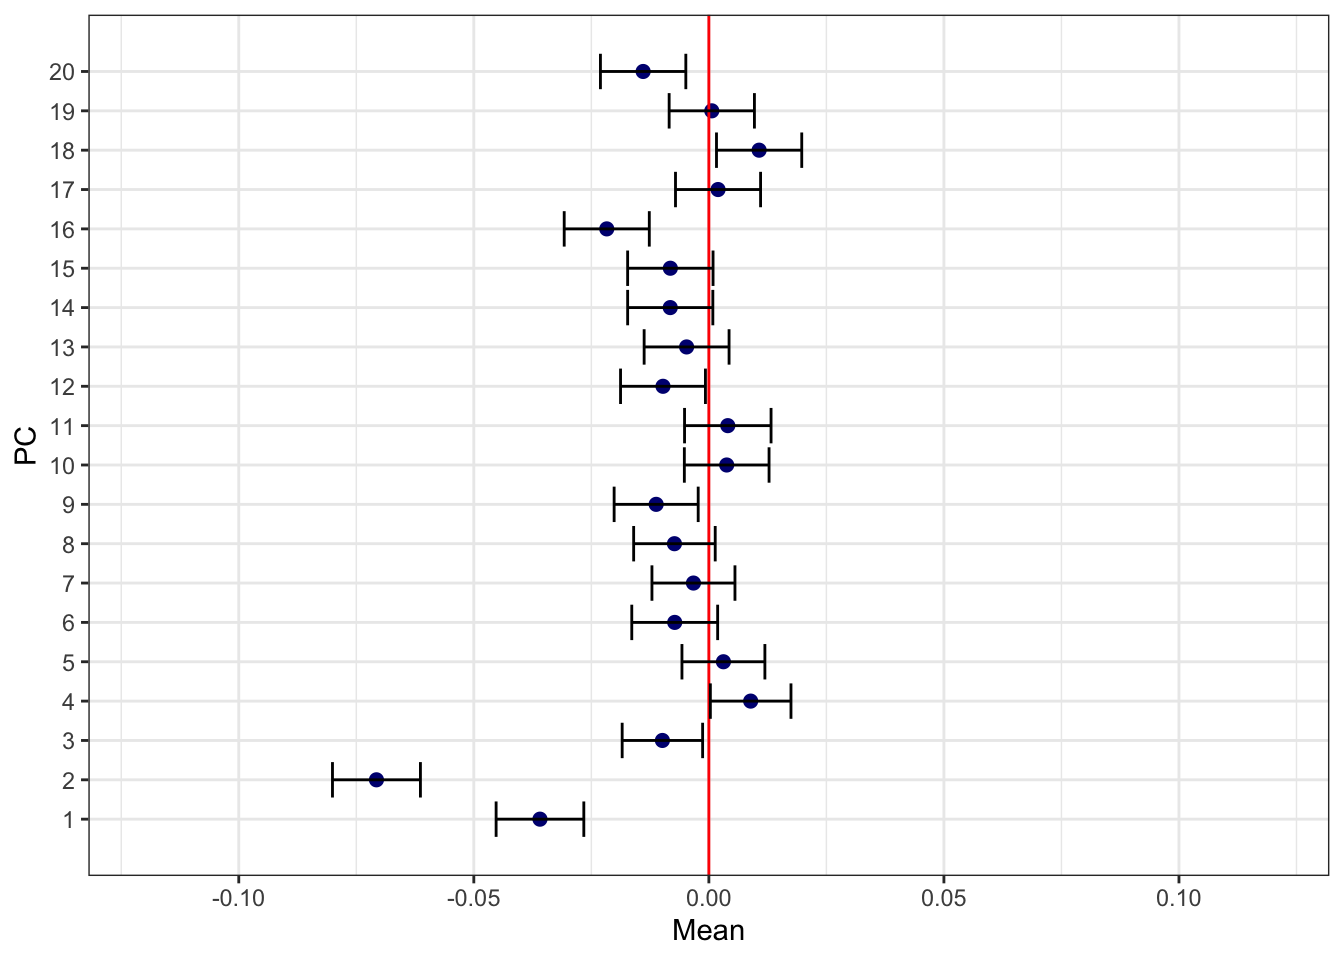
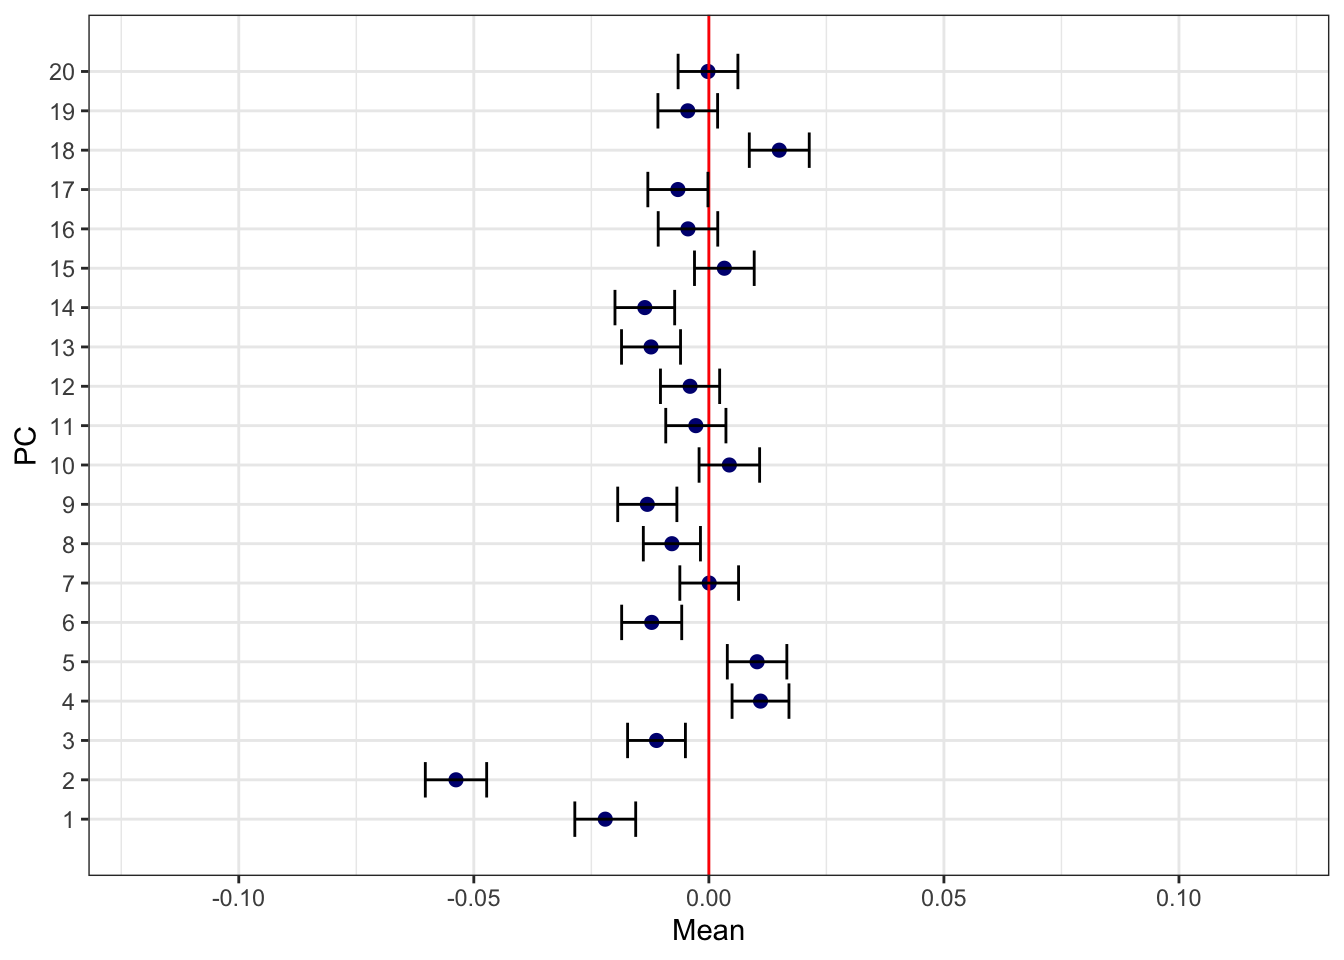
Build site.

diff --git a/docs/Stratification.html b/docs/Stratification.html
@@ -411,7 +411,7 @@ div.section {
 <div class="tab-content">
 <div id="summary" class="tab-pane fade in active">
 <p>
-<strong>Last updated:</strong> 2020-04-02
+<strong>Last updated:</strong> 2020-04-14
 </p>
 <p>
 <strong>Checks:</strong> <span class="glyphicon glyphicon-ok text-success" aria-hidden="true"></span> 7 <span class="glyphicon glyphicon-exclamation-sign text-danger" aria-hidden="true"></span> 0
@@ -502,10 +502,10 @@ This reproducible <a href="http://rmarkdown.rstudio.com">R Markdown</a> analysis
 <div class="panel panel-default">
 <div class="panel-heading">
 <p class="panel-title">
-<a data-toggle="collapse" data-parent="#workflowr-checks" href="#strongRepositoryversionstrongahrefhttpsgithubcomjgblancinfermutationalbiastreebf483b5fcdb767f1be135f4f3b27c9c65f68a8f4targetblankbf483b5a"> <span class="glyphicon glyphicon-ok text-success" aria-hidden="true"></span> <strong>Repository version:</strong> <a href="https://github.com/jgblanc/infer_mutational_bias/tree/bf483b5fcdb767f1be135f4f3b27c9c65f68a8f4" target="_blank">bf483b5</a> </a>
+<a data-toggle="collapse" data-parent="#workflowr-checks" href="#strongRepositoryversionstrongahrefhttpsgithubcomjgblancinfermutationalbiastree61ad1257bce9aa6871e9d38f3ef45d5909ffad24targetblank61ad125a"> <span class="glyphicon glyphicon-ok text-success" aria-hidden="true"></span> <strong>Repository version:</strong> <a href="https://github.com/jgblanc/infer_mutational_bias/tree/61ad1257bce9aa6871e9d38f3ef45d5909ffad24" target="_blank">61ad125</a> </a>
 </p>
 </div>
[2 lines of base64/hex data omitted]
 <div class="panel-body">
 <p>
 Great! You are using Git for version control. Tracking code development and connecting the code version to the results is critical for reproducibility. The version displayed above was the version of the Git repository at the time these results were generated. <br><br> Note that you need to be careful to ensure that all relevant files for the analysis have been committed to Git prior to generating the results (you can use <code>wflow_publish</code> or <code>wflow_git_commit</code>). workflowr only checks the R Markdown file, but you know if there are other scripts or data files that it depends on. Below is the status of the Git repository when the results were generated:
@@ -599,6 +599,7 @@ Untracked files:
     Untracked:  .snakemake/metadata/b3V0cHV0L0dXQVNfQVRMQVMvcHJ1bmVkL2hlaWdodF8xNDJfMC4wMDAxLnBydW5lLmlu
     Untracked:  .snakemake/metadata/b3V0cHV0L0dXQVNfQVRMQVMvcHJ1bmVkL3NjaGl6b3BocmVuaWFfMzk4Ml8wLjAwMDEucHJ1bmUuaW4=
     Untracked:  .snakemake/scripts/tmp7997be50.get_evolutionary_information_from_1kg_GWAS_ATLAS.py
+    Untracked:  analysis/STAN_model_strat.Rmd
     Untracked:  analysis/test.Rmd
     Untracked:  code/parse_gwas_atlas_nonsig/height_142.R
     Untracked:  code/rsID_Pos_conversion.py
@@ -612,6 +613,7 @@ Unstaged changes:
     Modified:   .snakemake/metadata/b3V0cHV0L1NUUkFUL3BydW5lZC9jaHIxX0VVUl8wLjMuZWlnZW52ZWMudmFyLkRBLnBydW5lLmlu
     Modified:   .snakemake/metadata/b3V0cHV0L1NUUkFUL3BydW5lZC9jaHIxX0VVUl8wLjQuZWlnZW52ZWMudmFyLkRBLnBydW5lLmlu
     Modified:   analysis/GWAS_ATLAS_results.Rmd
+    Modified:   analysis/shift_GWAS_ATLAS.Rmd
     Modified:   code/parse_gwas_atlas_nonsig/CAD_3925.R
     Modified:   code/parse_gwas_atlas_nonsig/T2D_4085.R
     Modified:   code/parse_gwas_atlas_nonsig/UC_2030.R
@@ -656,6 +658,40 @@ Message
 </tr>
 </thead>
 <tbody>
+<tr>
+<td>
+Rmd
+</td>
+<td>
+<a href="https://github.com/jgblanc/infer_mutational_bias/blob/61ad1257bce9aa6871e9d38f3ef45d5909ffad24/analysis/Stratification.Rmd" target="_blank">61ad125</a>
+</td>
+<td>
+jgblanc
+</td>
+<td>
+2020-04-14
+</td>
+<td>
+Fixed bug
+</td>
+</tr>
+<tr>
+<td>
+html
+</td>
+<td>
+<a href="https://rawcdn.githack.com/jgblanc/infer_mutational_bias/e7077ba9878fccaed296d44b39a5819250d48948/docs/Stratification.html" target="_blank">e7077ba</a>
+</td>
+<td>
+jgblanc
+</td>
+<td>
+2020-04-02
+</td>
+<td>
+Build site.
+</td>
+</tr>
 <tr>
 <td>
 html
@@ -935,16 +971,16 @@ jgblanc
 </div>
 <div id="snp-loadings" class="section level2">
 <h2>SNP Loadings</h2>
-<p>MAF filter 0.01 (n = 9755877, pruned = 65370)</p>
+<p>MAF filter 0.01 (n w/ DA info = 7937190 , pruned = 578137)</p>
 <pre class="r"><code>loading &lt;- fread(&quot;../data/STRAT/EUR_0.01_evo.txt&quot;)
 loading &lt;- loading %&gt;% na.omit() # Get rid of no info (DA) SNPs 
 pruned &lt;- fread(&quot;../data/STRAT/EUR_0.01.eigenvec.var.DA.prune.in&quot;, header = F)
 loading &lt;- left_join(pruned,loading, by = c(&quot;V1&quot;=&quot;V2&quot;))
-only_num &lt;- loading[,5:24]
-sums &lt;- colMeans(only_num, na.rm = T)
+only_num &lt;- loading[,5:24] * loading$V25
+sums &lt;- colMeans(only_num)
 stan_devs &lt;- apply(only_num, 2, sd)
-lower_bound &lt;- sums - (1.960 * (stan_devs / sqrt(nrow(pruned))))
-upper_bound &lt;- sums + (1.960 * (stan_devs / sqrt(nrow(pruned))))
+lower_bound &lt;- sums - (1.960 * (stan_devs / sqrt(nrow(only_num))))
+upper_bound &lt;- sums + (1.960 * (stan_devs / sqrt(nrow(only_num))))
  
 
 df_0.01 &lt;- as.data.frame(cbind(sums,seq(1,20), lower_bound, upper_bound))
@@ -1022,12 +1058,12 @@ jgblanc
 </table>
 </div>
 </div>
-<p>MAF filter 0.05 (n=6983938, pruned = 45803)</p>
+<p>MAF filter 0.05 (n w/ DA info = 5627285, pruned = 117441)</p>
 <pre class="r"><code>loading &lt;- fread(&quot;../data/STRAT/EUR_0.05_evo.txt&quot;)
 loading &lt;- loading %&gt;% na.omit() # Get rid of no info (DA) SNPs 
 pruned &lt;- fread(&quot;../data/STRAT/EUR_0.05.eigenvec.var.DA.prune.in&quot;, header = F)
 loading &lt;- left_join(pruned,loading, by = c(&quot;V1&quot;=&quot;V2&quot;))
-only_num &lt;- loading[,5:24]
+only_num &lt;- loading[,5:24] *  loading$V25
 sums &lt;- colMeans(only_num, na.rm = T)
 stan_devs &lt;- apply(only_num, 2, sd)
 lower_bound &lt;- sums - (1.960 * (stan_devs / sqrt(nrow(pruned))))
@@ -1098,12 +1134,12 @@ jgblanc
 </table>
 </div>
 </div>
-<p>MAF filter 0.1 (n = 5608165, pruned = 41521)</p>
+<p>MAF filter 0.1 (n = 4496063, pruned = 86767)</p>
 <pre class="r"><code>loading &lt;- fread(&quot;../data/STRAT/EUR_0.1_evo.txt&quot;)
 loading &lt;- loading %&gt;% na.omit() # Get rid of no info (DA) SNPs 
 pruned &lt;- fread(&quot;../data/STRAT/EUR_0.1.eigenvec.var.DA.prune.in&quot;, header = F)
 loading &lt;- left_join(pruned,loading, by = c(&quot;V1&quot;=&quot;V2&quot;))
-only_num &lt;- loading[,5:24]
+only_num &lt;- loading[,5:24] * loading$V25
 sums &lt;- colMeans(only_num, na.rm = T)
 stan_devs &lt;- apply(only_num, 2, sd)
 lower_bound &lt;- sums - (1.960 * (stan_devs / sqrt(nrow(pruned))))
@@ -1174,12 +1210,12 @@ jgblanc
 </table>
 </div>
 </div>
-<p>MAF filter 0.2 (n=3787677, pruned = 36086)</p>
+<p>MAF filter 0.2 (n=3019106, pruned = 64230)</p>
 <pre class="r"><code>loading &lt;- fread(&quot;../data/STRAT/EUR_0.2_evo.txt&quot;)
 loading &lt;- loading %&gt;% na.omit() # Get rid of no info (DA) SNPs 
 pruned &lt;- fread(&quot;../data/STRAT/EUR_0.2.eigenvec.var.DA.prune.in&quot;, header = F)
 loading &lt;- left_join(pruned,loading, by = c(&quot;V1&quot;=&quot;V2&quot;))
-only_num &lt;- loading[,5:24]
+only_num &lt;- loading[,5:24]* loading$V25
 sums &lt;- colMeans(only_num, na.rm = T)
 stan_devs &lt;- apply(only_num, 2, sd)
 lower_bound &lt;- sums - (1.960 * (stan_devs / sqrt(nrow(pruned))))
@@ -1250,12 +1286,12 @@ jgblanc
 </table>
 </div>
 </div>
-<p>MAF filter 0.3 (n=2401987, pruned = 31059)</p>
+<p>MAF filter 0.3 (n=1906644, pruned = 48015)</p>
 <pre class="r"><code>loading &lt;- fread(&quot;../data/STRAT/EUR_0.3_evo.txt&quot;)
 loading &lt;- loading %&gt;% na.omit() # Get rid of no info (DA) SNPs 
 pruned &lt;- fread(&quot;../data/STRAT/EUR_0.3.eigenvec.var.DA.prune.in&quot;, header = F)
 loading &lt;- left_join(pruned,loading, by = c(&quot;V1&quot;=&quot;V2&quot;))
-only_num &lt;- loading[,5:24]
+only_num &lt;- loading[,5:24]* loading$V25
 sums &lt;- colMeans(only_num, na.rm = T)
 stan_devs &lt;- apply(only_num, 2, sd)
 lower_bound &lt;- sums - (1.960 * (stan_devs / sqrt(nrow(pruned))))
@@ -1326,12 +1362,12 @@ jgblanc
 </table>
 </div>
 </div>
-<p>MAF filter 0.4 (n=1172620, pruned = 24810)</p>
+<p>MAF filter 0.4 (n=926834, pruned = 33551)</p>
 <pre class="r"><code>loading &lt;- fread(&quot;../data/STRAT/EUR_0.4_evo.txt&quot;)
 loading &lt;- loading %&gt;% na.omit() # Get rid of no info (DA) SNPs 
 pruned &lt;- fread(&quot;../data/STRAT/EUR_0.4.eigenvec.var.DA.prune.in&quot;, header = F)
 loading &lt;- left_join(pruned,loading, by = c(&quot;V1&quot;=&quot;V2&quot;))
-only_num &lt;- loading[,5:24]
+only_num &lt;- loading[,5:24]* loading$V25
 sums &lt;- colMeans(only_num, na.rm = T)
 stan_devs &lt;- apply(only_num, 2, sd)
 lower_bound &lt;- sums - (1.960 * (stan_devs / sqrt(nrow(pruned))))
@@ -1734,6 +1770,58 @@ jgblanc
 </table>
 </div>
 </div>
+<div id="stratifacation-of-gwas-snps" class="section level3">
+<h3>Stratifacation of GWAS SNPs</h3>
+<p><strong>Schizophrenia significant SNPs</strong></p>
+<pre class="r"><code>loading &lt;- fread(&quot;../data/STRAT/EUR_0.01_evo.txt&quot;)
+loading &lt;- loading %&gt;% na.omit() # Get rid of no info (DA) SNPs 
+schizophrenia &lt;- fread(&quot;../output/GWAS_ATLAS/evo_added/schizophrenia_3982_evo.txt&quot;)
+colnames(schizophrenia) &lt;- c(colnames(schizophrenia)[1:13], &quot;EA_Derived&quot;, &quot;DAF&quot;, &quot;Risk_Derived&quot;)
+schizophrenia$disease &lt;- &quot;Schizophenria&quot;
+clumped &lt;- fread(&quot;../output/GWAS_ATLAS/clumped/schizophrenia_3982_SNPs.txt&quot;)
+schizophrenia &lt;- left_join(clumped, schizophrenia) </code></pre>
+<pre><code>Joining, by = &quot;SNP&quot;</code></pre>
+<pre class="r"><code>df &lt;- schizophrenia %&gt;% select(SNP)</code></pre>
+<pre class="r"><code>#write.table(df, file = &quot;../data/STRAT/schizophrenia_chrbp_snps.txt&quot;, quote = F, row.names = F)
+#system(&quot;awk -F &#39;,&#39; &#39;NR==FNR {id[$1]; next} $1 in id&#39; ../data/STRAT/schizophrenia_chrbp_snps.txt ../data/rsID_pos_conversion.txt &gt; ../data/STRAT/schizophrenia_conversion.csv&quot;)</code></pre>
+<pre class="r"><code>conversion &lt;- fread(&quot;../data/STRAT/schizophrenia_conversion.csv&quot;, header = F)
+comb &lt;- left_join(conversion, loading, by = c(&quot;V2&quot; = &quot;V2&quot;))
+
+only_num &lt;- comb[,6:25] * comb$V25
+only_num &lt;- only_num %&gt;%na.omit()
+sums &lt;- colMeans(only_num, na.rm = T)
+stan_devs &lt;- apply(only_num, 2, sd)
+lower_bound &lt;- sums - (1.960 * (stan_devs / sqrt(nrow(only_num))))
+upper_bound &lt;- sums + (1.960 * (stan_devs / sqrt(nrow(only_num))))
+ 
+df &lt;- as.data.frame(cbind(sums,seq(1,20), lower_bound, upper_bound))
+pl &lt;- ggplot(df, aes(x=sums,y=V2)) + geom_point(size = 2, color = &quot;navy&quot;) + geom_vline(xintercept = 0, color = &quot;red&quot;) + ylab(&quot;PC&quot;) + scale_y_continuous(minor_breaks = seq(1 , 20, 1), breaks = seq(1, 20, 1)) + xlab(&quot;Mean&quot;) + theme_bw() + geom_errorbarh(aes(xmin = lower_bound, xmax = upper_bound))
+
+pl</code></pre>
+<p><img src="figure/Stratification.Rmd/unnamed-chunk-17-1.png" width="672" style="display: block; margin: auto;" /></p>
+<p><strong>Schizophrenia non-significant SNPs</strong></p>
+<pre class="r"><code>schizophrenia &lt;- fread(&quot;../output/GWAS_ATLAS/evo_added/schizophrenia_3982-0.0001_evo.txt&quot;)
+colnames(schizophrenia) &lt;- c(colnames(schizophrenia)[1:13], &quot;EA_Derived&quot;, &quot;DAF&quot;, &quot;Risk_Derived&quot;)
+pruned &lt;- fread(&quot;../output/GWAS_ATLAS/pruned/schizophrenia_3982_0.0001.prune.in&quot;, header = F)
+schizophrenia &lt;- left_join(pruned, schizophrenia, by = c(&quot;V1&quot; = &quot;SNP&quot;))
+df &lt;- schizophrenia %&gt;% select(V1)</code></pre>
+<pre class="r"><code>#write.table(df, file = &quot;../data/STRAT/schizophrenia_chrbp_snps_nonsig.txt&quot;, quote = F, row.names = F)
+#system(&quot;awk -F &#39;,&#39; &#39;NR==FNR {id[$1]; next} $1 in id&#39; ../data/STRAT/schizophrenia_chrbp_snps_nonsig.txt ../data/rsID_pos_conversion.txt &gt; ../data/STRAT/schizophrenia_conversion_nonsig.csv&quot;)</code></pre>
+<pre class="r"><code>conversion &lt;- fread(&quot;../data/STRAT/schizophrenia_conversion_nonsig.csv&quot;, header = F)
+comb &lt;- left_join(conversion, loading, by = c(&quot;V2&quot; = &quot;V2&quot;))
+
+only_num &lt;- comb[,6:25] * comb$V25
+only_num &lt;- only_num %&gt;%na.omit()
+sums &lt;- colMeans(only_num, na.rm = T)
+stan_devs &lt;- apply(only_num, 2, sd)
+lower_bound &lt;- sums - (1.960 * (stan_devs / sqrt(nrow(only_num))))
+upper_bound &lt;- sums + (1.960 * (stan_devs / sqrt(nrow(only_num))))
+ 
+df_nonsig &lt;- as.data.frame(cbind(sums,seq(1,20), lower_bound, upper_bound))
+pl_nonsig &lt;- ggplot(df_nonsig, aes(x=sums,y=V2)) + geom_point(size = 2, color = &quot;navy&quot;) + geom_vline(xintercept = 0, color = &quot;red&quot;) + ylab(&quot;PC&quot;) + scale_y_continuous(minor_breaks = seq(1 , 20, 1), breaks = seq(1, 20, 1)) + xlab(&quot;Mean&quot;) + theme_bw() + geom_errorbarh(aes(xmin = lower_bound, xmax = upper_bound))
+
+pl_nonsig</code></pre>
+<p><img src="figure/Stratification.Rmd/unnamed-chunk-20-1.png" width="672" style="display: block; margin: auto;" /></p>
 <br>
 <p>
 <button type="button" class="btn btn-default btn-workflowr btn-workflowr-sessioninfo" data-toggle="collapse" data-target="#workflowr-sessioninfo" style="display: block;">
@@ -1765,13 +1853,14 @@ loaded via a namespace (and not attached):
  [5] git2r_0.26.1     tools_3.6.2      digest_0.6.25    evaluate_0.14   
  [9] lifecycle_0.1.0  tibble_2.1.3     gtable_0.3.0     pkgconfig_2.0.3 
 [13] rlang_0.4.4      yaml_2.2.1       xfun_0.12        gridExtra_2.3   
-[17] withr_2.1.2      stringr_1.4.0    knitr_1.28       fs_1.3.1        
-[21] cowplot_1.0.0    rprojroot_1.3-2  grid_3.6.2       tidyselect_1.0.0
-[25] glue_1.3.1       R6_2.4.1         rmarkdown_2.1    farver_2.0.3    
-[29] purrr_0.3.3      whisker_0.4      backports_1.1.5  scales_1.1.0    
-[33] promises_1.1.0   htmltools_0.4.0  assertthat_0.2.1 colorspace_1.4-1
-[37] ggsignif_0.6.0   httpuv_1.5.2     labeling_0.3     stringi_1.4.6   
-[41] lazyeval_0.2.2   munsell_0.5.0    crayon_1.3.4    </code></pre>
+[17] withr_2.1.2      stringr_1.4.0    knitr_1.28       vctrs_0.2.3     
+[21] fs_1.3.1         cowplot_1.0.0    rprojroot_1.3-2  grid_3.6.2      
+[25] tidyselect_1.0.0 glue_1.3.1       R6_2.4.1         rmarkdown_2.1   
+[29] farver_2.0.3     purrr_0.3.3      whisker_0.4      backports_1.1.5 
+[33] scales_1.1.0     promises_1.1.0   htmltools_0.4.0  assertthat_0.2.1
+[37] colorspace_1.4-1 ggsignif_0.6.0   httpuv_1.5.2     labeling_0.3    
+[41] stringi_1.4.6    lazyeval_0.2.2   munsell_0.5.0    crayon_1.3.4    </code></pre>
+</div>
 </div>
 </div>
 
